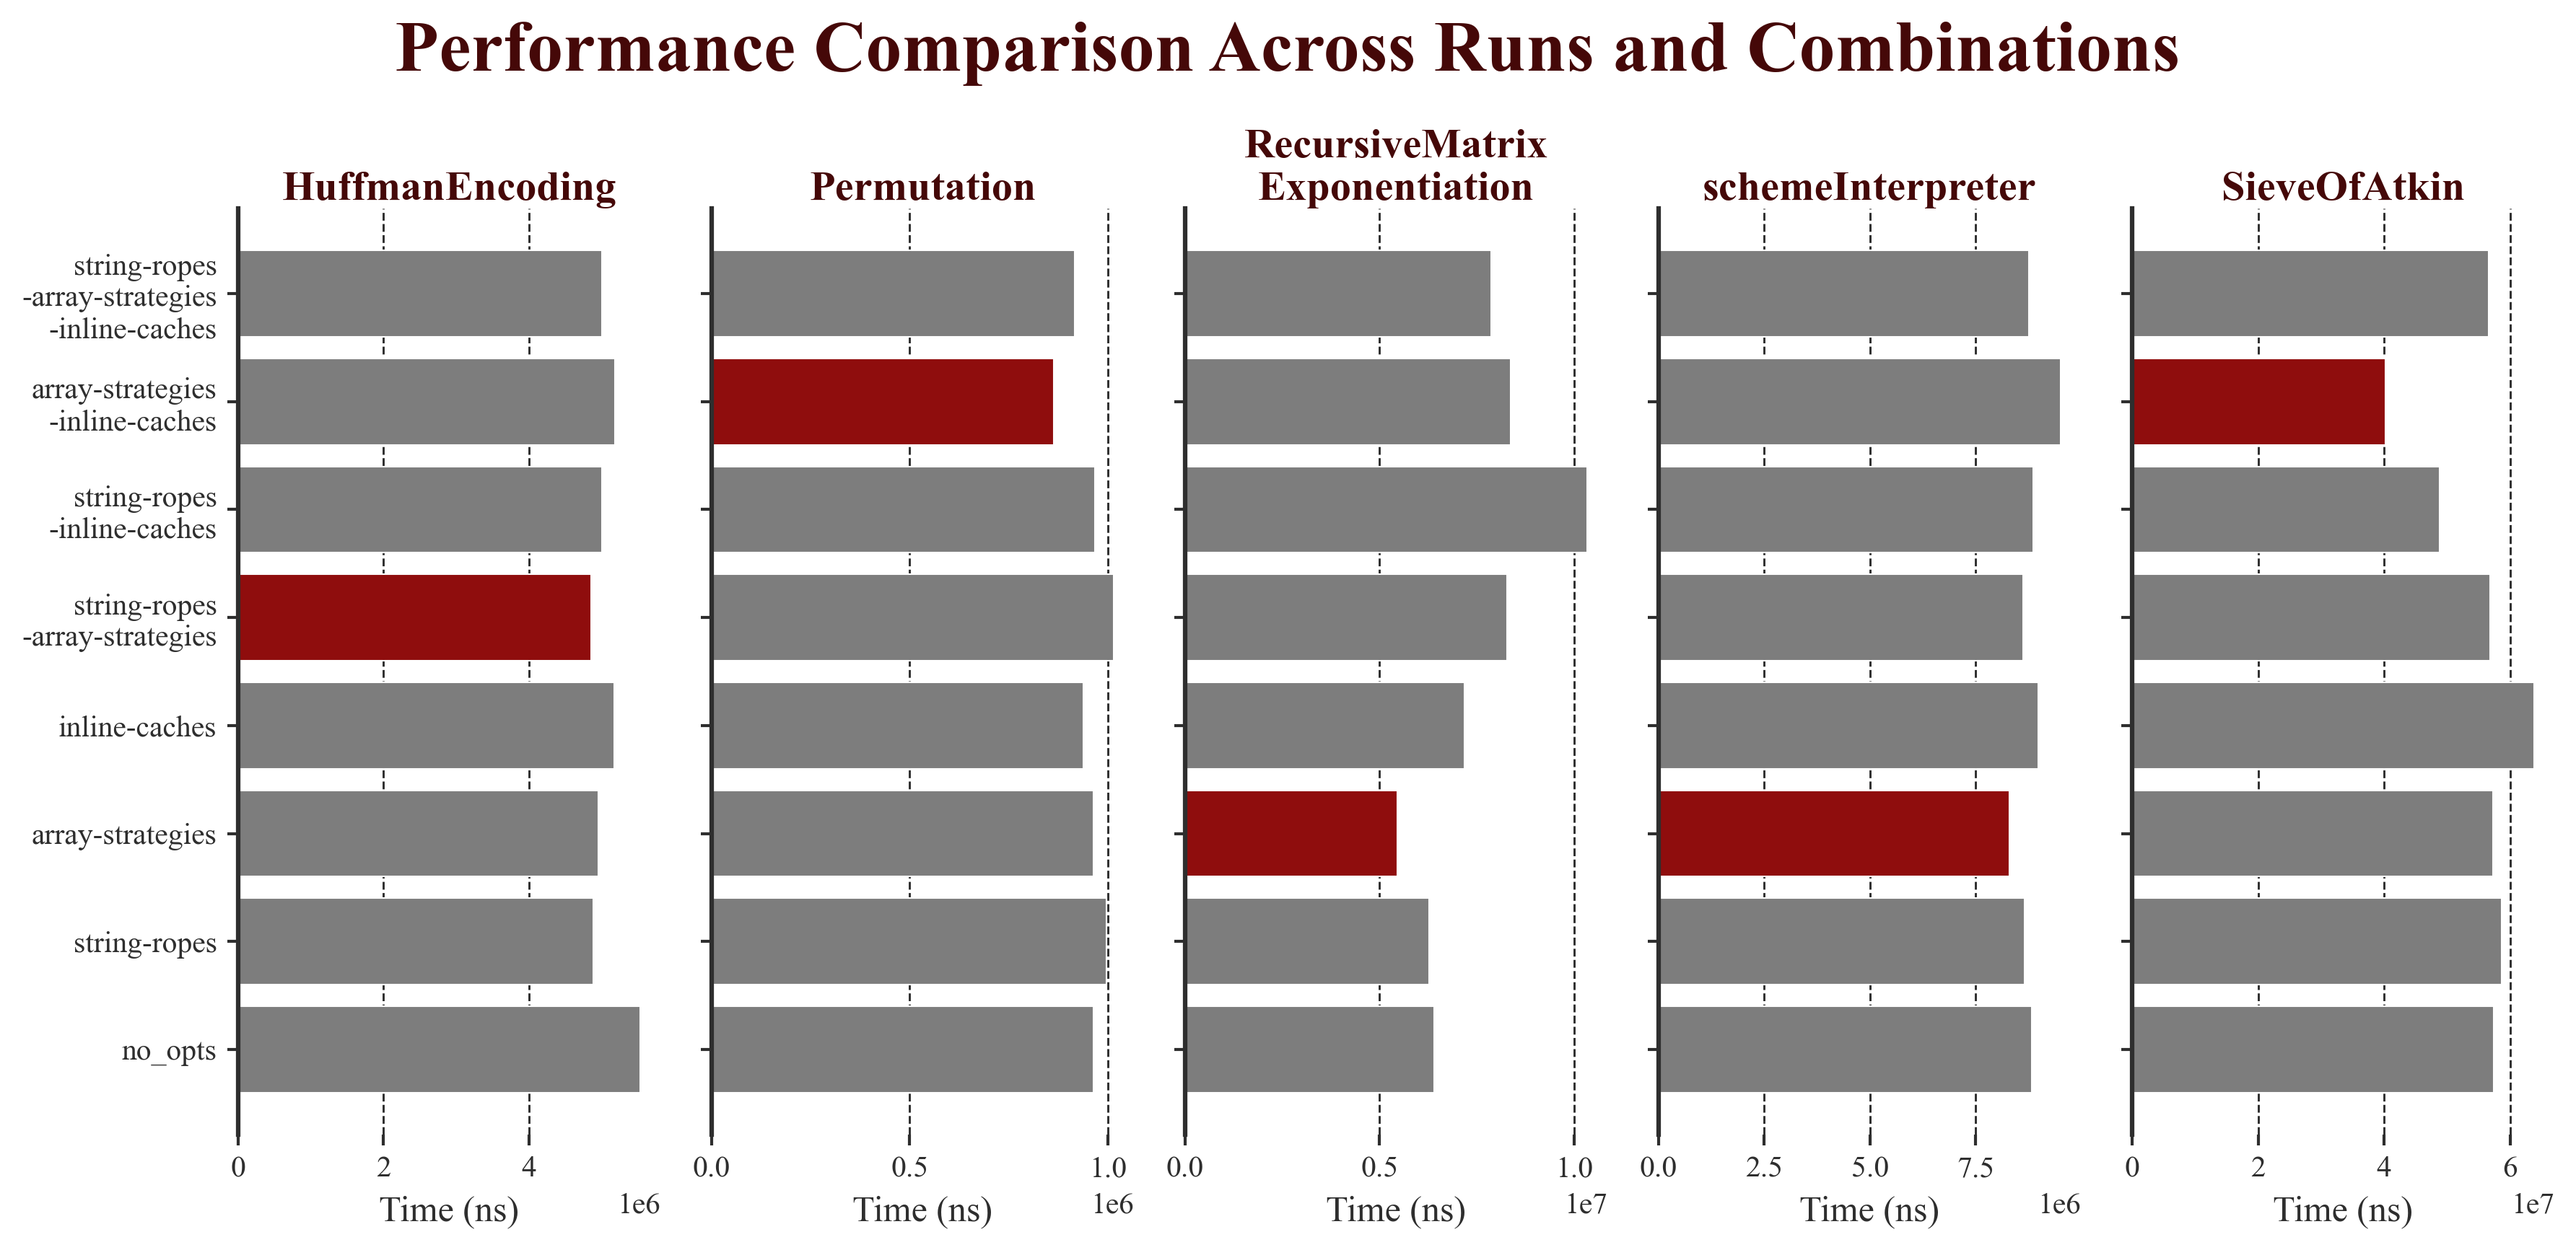
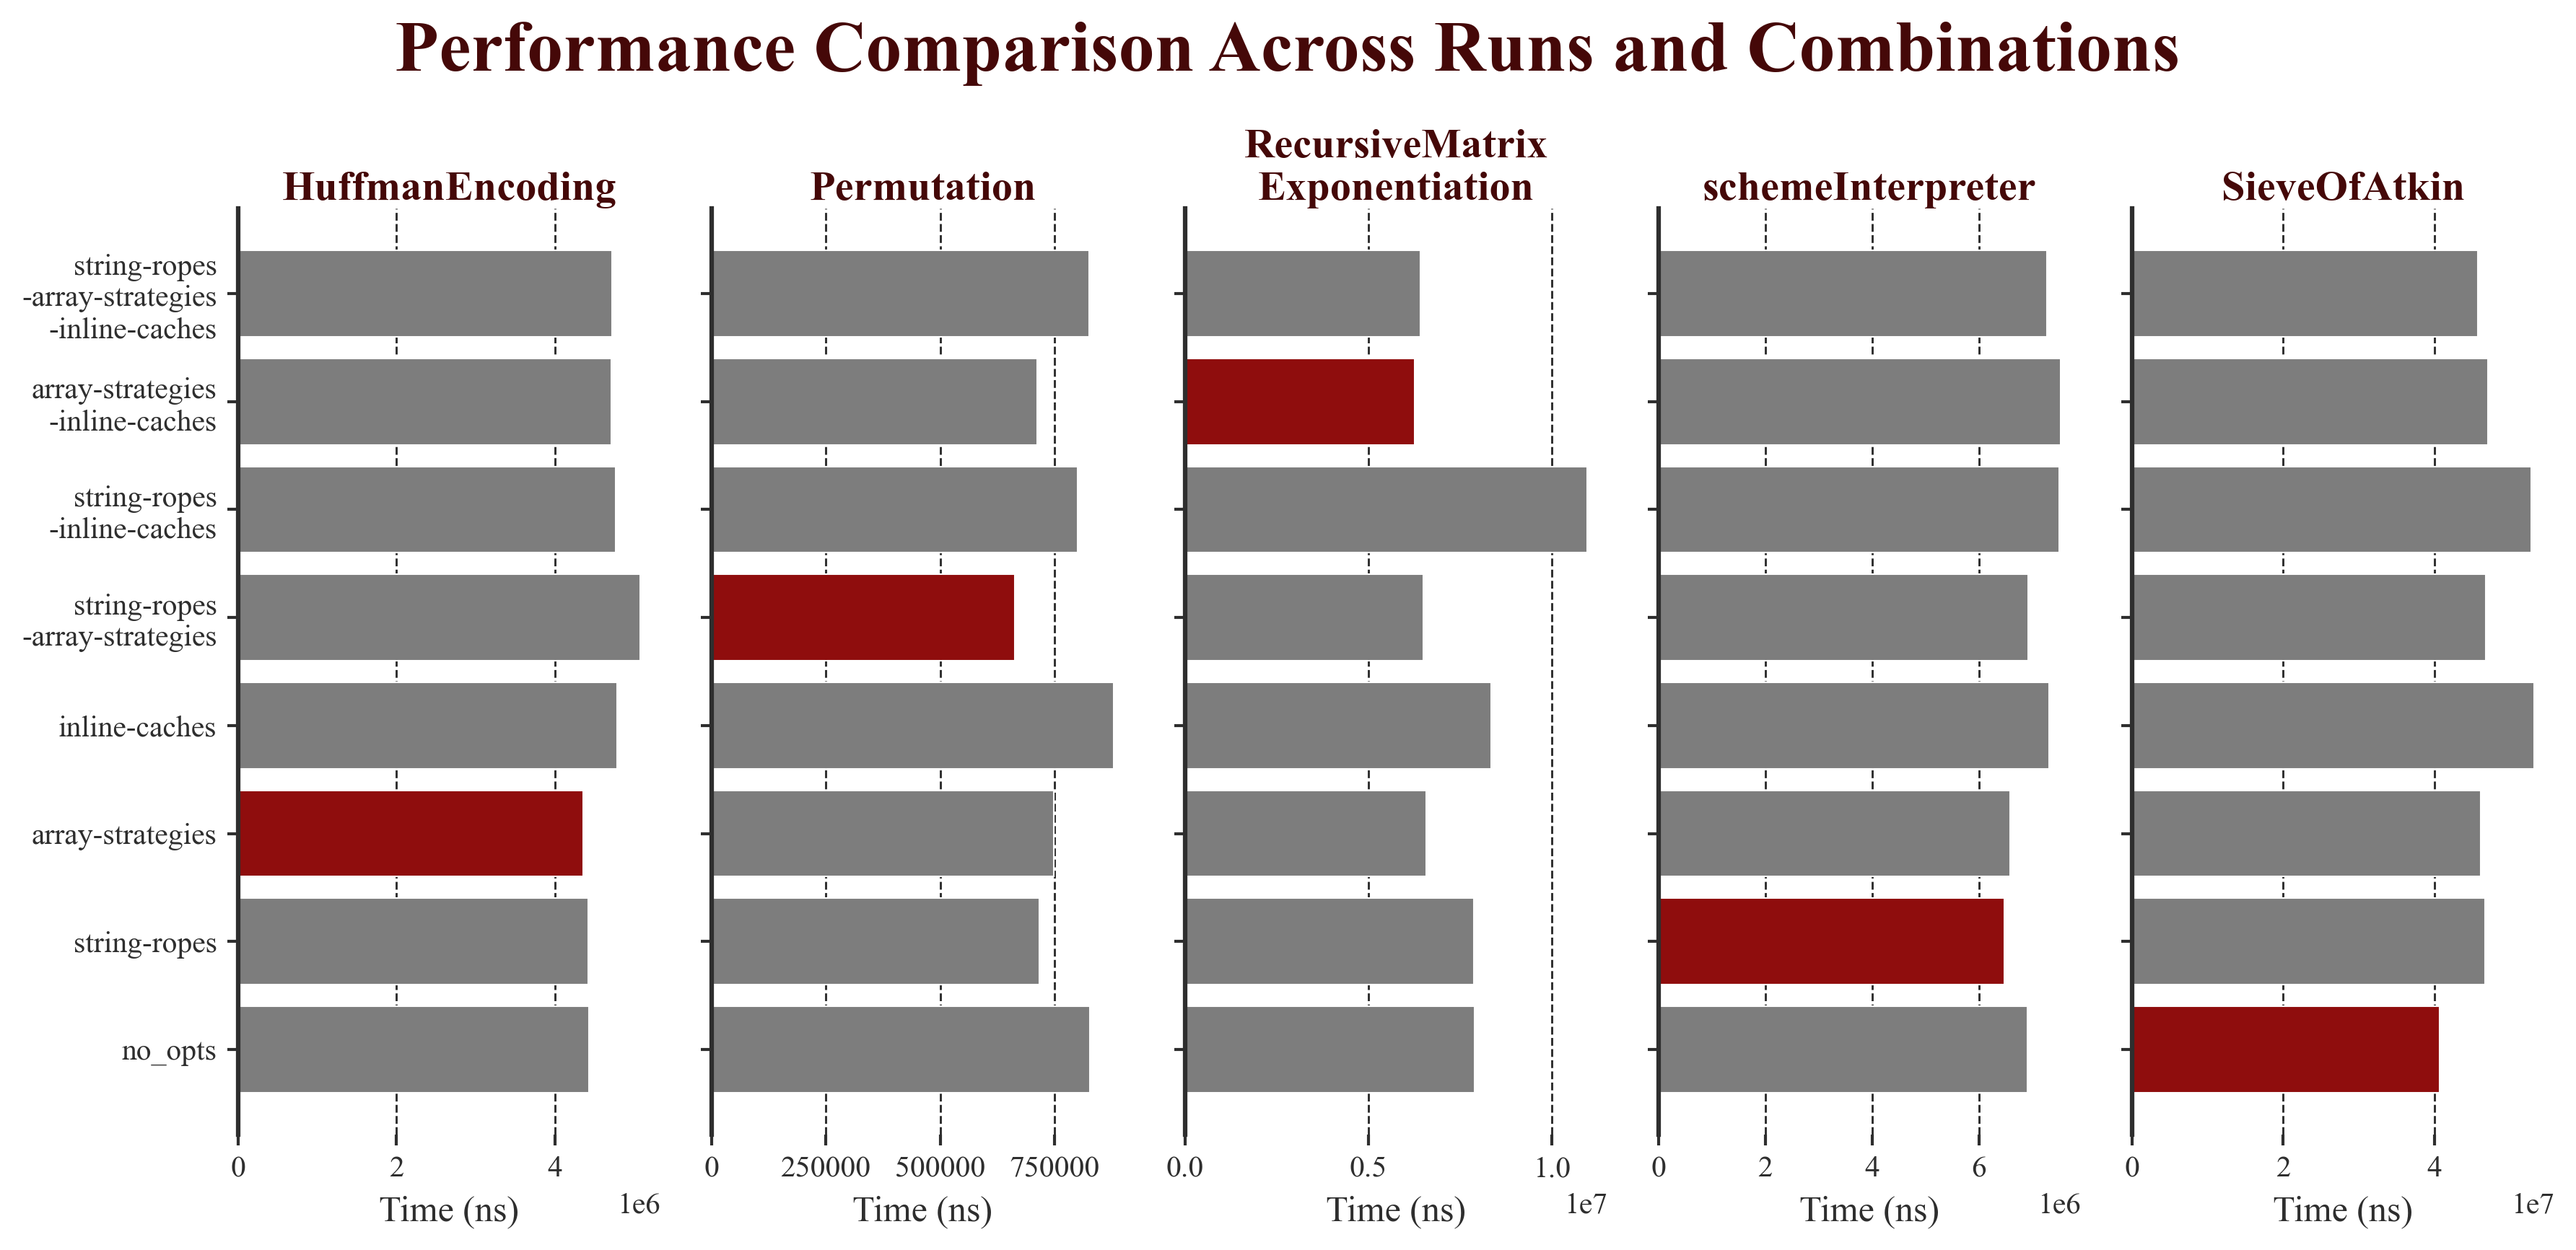
Last changes to Comparison files.

diff --git a/scripts/GroupedTimeComparison.py b/scripts/GroupedTimeComparison.py
@@ -40,15 +40,33 @@ benchmarks = {
     ]
 }
 
+benchmarks = {
+    "HuffmanEncoding": [
+        [4955957],
+        [2051524]],
+    "Permutation": [
+        [619662],
+        [638401]],
+    "RecursiveMatrix\nExponentiation": [
+        [6894824],
+        [4807624]],
+    "schemeInterpreter": [
+        [5356445],
+        [3577313]],
+    "SieveOfAtkin": [
+        [42894080],
+        [1546697]]
+    }
+
 # Categories for the legend
-categories = ["Our Impl.", "JIT Impl.", "Reference\nImpl."]
+categories = ["Our Impl.", "Reference\nImpl."]
 
 # Benchmark names and number of benchmarks
 benchmark_names = list(benchmarks.keys())
 num_benchmarks = len(benchmark_names)
 
 # Figure setup with shared y-axis
-fig, axes = plt.subplots(nrows=1, ncols=num_benchmarks, figsize=(12, 4), facecolor='white', sharey=True)
+fig, axes = plt.subplots(nrows=1, ncols=num_benchmarks, figsize=(12, 3), facecolor='white', sharey=True)
 
 # Add a big title for the entire figure
 fig.text(0.5, 0.97, "Time Comparison Across Benchmarks",
@@ -66,10 +84,7 @@ for i, (benchmark_name, data) in enumerate(benchmarks.items()):
     min_index = 0 if values[0] < values[1] else 1
 
     # Set default colors
-    bar_colors = [colors["LightGrey"], colors["LightGrey"], colors["SlateGrey"]]
-
-    # Highlight the faster one (among Our Impl. and JIT Impl.)
-    bar_colors[min_index] = colors["PastelRed"]
+    bar_colors = [colors["LightGrey"], colors["SlateGrey"]]
 
     # Plot all three bars
     bars = ax.barh(

diff --git a/scripts/BenchmarkOptimizationComparison.py b/scripts/BenchmarkOptimizationComparison.py
@@ -32,6 +32,20 @@ runs = [
     [57389010, 58636158, 57258367, 63787329, 56779282, 48806648, 40148699, 56598082]
 ]
 
+
+# runs = [
+#     # HuffmanCoding.sl
+#     [4427624, 4418372, 4354887, 4785652, 5072154, 4758715, 4704358, 4713467],
+#     # Permutation.sl
+#     [826837, 716237, 749024, 879448, 662674, 800872, 712790, 825583],
+#     # RecursiveMatrixExponentiation.sl
+#     [7891350, 7863368, 6567595, 8344979, 6486777, 10958083, 6254714, 6422336],
+#     # schemeInterpreter.sl
+#     [6910631, 6482952, 6587428, 7318502, 6926256, 7503332, 7534708, 7275138],
+#     # SieveOfAtkin.sl
+#     [40689317, 46711526, 46121753, 53188608, 46742543, 52748866, 47086934, 45694938]
+# ]
+
 # Made-up group labels (e.g., different test environments)
 group_labels = [
     "HuffmanEncoding",

diff --git a/scripts/TimeComparison.py b/scripts/TimeComparison.py
@@ -14,16 +14,16 @@ colors = {
 
 # Data
 data = [
-    [2.759, 21.192, 8.732, 3.917],
-    [45.903]
+    [20800, 3360300, 2096800],
+    [17300, 2639200, 100960200, 268900]
 ]
 
-categories = ["Our Impl.", "Reference\nImpl."]
+categories = ["Unoptimized", "JIT-compiled"]
 
 # Labels for each data segment
 segment_labels = [
-    ["AST\nto\nOp", "BCI Creation", "Builtins", "Other"],
-    ["Total"]
+    ["AST\nto\nOp", "Builtins", "Execution"],
+    ["AST\nto\nOp", "Builtins", "JIT-Compilation", "Execution"],
 ]
 
 # Normalize lengths
